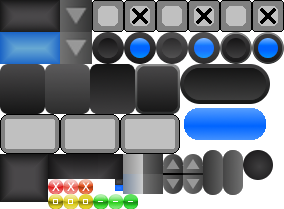
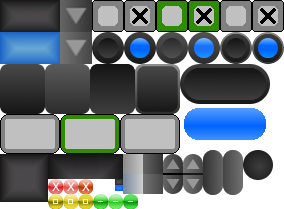
Non-resizable window

Changed region(s): [[0.5352, 0.0, 0.7887, 0.1722], [0.1972, 0.5455, 0.4225, 0.7464]]

diff --git a/TGUI/src/Interface/Scheme/Map/MapObjects/MapInfo.cpp b/TGUI/src/Interface/Scheme/Map/MapObjects/MapInfo.cpp
@@ -120,7 +120,7 @@ int MapInfo::OpenZeros(sf::Vector2i start) {
             if (MapInfo::tiles[x][y].state != MapInfo::states::pressed) {
                 MapInfo::tiles[x][y].state = MapInfo::states::pressed;
                 MapInfo::nClosedTiles--;
-                std::cout << "TILES LEFT : " << MapInfo::nClosedTiles << std::endl;
+//                std::cout << "TILES LEFT : " << MapInfo::nClosedTiles << std::endl;
             }
             continue;
         }
@@ -139,15 +139,15 @@ int MapInfo::OpenZeros(sf::Vector2i start) {
         if (MapInfo::tiles[x][y].state != MapInfo::states::pressed) {
             MapInfo::tiles[x][y].state = MapInfo::states::pressed;
             MapInfo::nClosedTiles--;
-            std::cout << "TILES LEFT : " << MapInfo::nClosedTiles << std::endl;
+//            std::cout << "TILES LEFT : " << MapInfo::nClosedTiles << std::endl;
         }
     }
-    for (int i = 0; i < MapInfo::mapSize.y; i++) {
-        for (int j = 0; j < MapInfo::mapSize.x; j++) {
-            std::cout << visited[j][i] << " ";
-        }
-        std::cout << std::endl;
-    }
+//    for (int i = 0; i < MapInfo::mapSize.y; i++) {
+//       for (int j = 0; j < MapInfo::mapSize.x; j++) {
+//            std::cout << visited[j][i] << " ";
+//        }
+//        std::cout << std::endl;
+//    }
 }
 
 int MapInfo::UpdateCounters() {

diff --git a/TGUI/src/Interface/Interface.cpp b/TGUI/src/Interface/Interface.cpp
@@ -17,7 +17,7 @@ int Interface::initInterface() {
 }
 
 int Interface::run() {
-    sf::RenderWindow window(sf::VideoMode(1080, 720), "TGUI window");
+    sf::RenderWindow window(sf::VideoMode(1080, 720), "TGUI window", sf::Style::Close);
     UIinformation::window = &window;
     UIinformation::window->setVerticalSyncEnabled(true);
     tgui::Gui gui(window);
